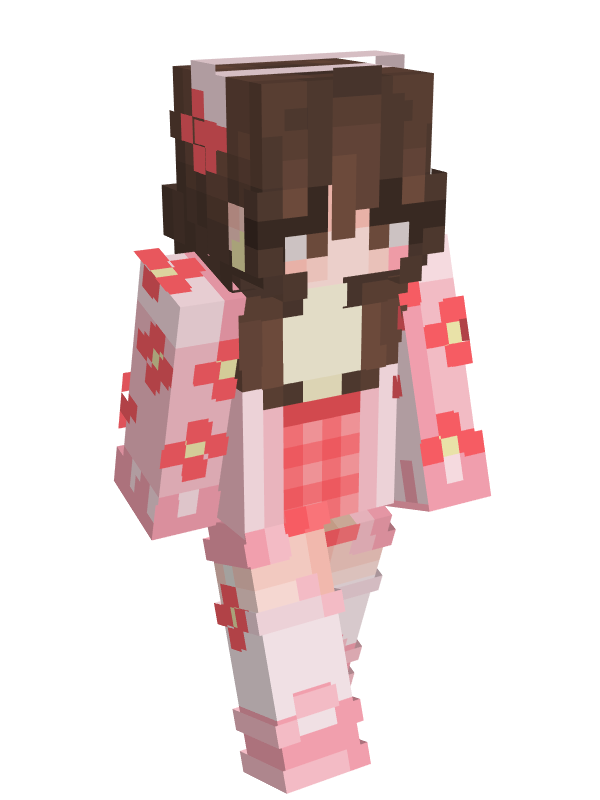
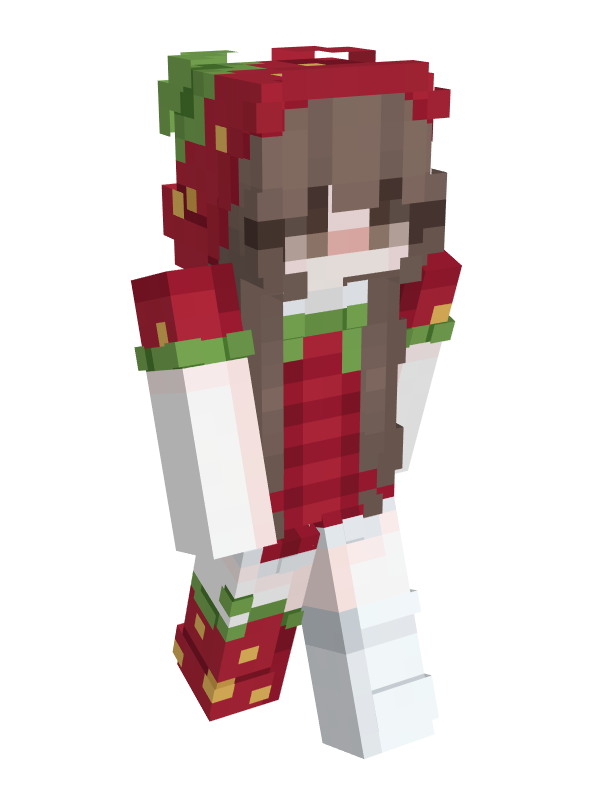
updated skins and added week 4

diff --git a/source/content/SarCraft/Seasons/Season 10/Season 10.md b/source/content/SarCraft/Seasons/Season 10/Season 10.md
@@ -27,6 +27,8 @@ In the continuing saga of SarCraft history, Season 10 stands as a testament to b
 - [[sillyxilly]]
 - [[PrincipleOf_AIS]]
 - [[Daisy]]
+- [[Raptross]]
+- [[dannyzek]]
 
 ## Pre-Launch Developments
 
@@ -362,25 +364,175 @@ the factory members would leave after a few hours and no pets were killed.
 
 ### Era of Peace
 
-week 2 would end with players starting to play together alot more. with the return of [[CatMDV|Cat]] to the server [[ToadGod|ToadBlaze]] would bring back the [[Spawn Mason]] and [[Chicken Factory]] would make a peace agreement with players at spawn.
+Week 2 would end with players starting to play together a lot more. Several significant developments shaped this period:
 
-many builds would take place during this period including a nether highway by [[Buhkiru]]
+#### Community Revival
 
-a overworld tunnel system would start by [[WhoIsFishie]]
+- [[CatMDV|Cat]] returned to the server
+- [[ToadGod|ToadBlaze]] reinvigorated the [[Spawn Mason]] faction
+- [[Chicken Factory]] established a peace agreement with players at spawn
 
-[[Chicken Factory]] base would become public as players would split out to make their own base and the original base would end up being owned by [[Buhkiru]]
+#### Infrastructure Projects
 
-[[ToadGod|ToadBlaze]] would also take this time to build up his base at spawn 
+- [[Buhkiru]] constructed a nether highway
+- [[WhoIsFishie]] began an overworld tunnel system
+- [[Buhkiru]] built the Black Pearl at spawn
 
-[[shihaam_me]] would head out about 4k blocks to build his world famous cube but his plans would have to be put on hold as [[TheHarryG|12OK]] offers to buy 14k dirt blocks in exchange for diamonds.
+#### Base Developments
 
-[[WhoIsFishie]] and [[Perhaps]] would make the journey to visit [[shihaam_me]] and give him some diamonds 
+- [[Chicken Factory]] base became public as members split off to make their own bases
+- The original Chicken Factory headquarters became [[Buhkiru]]'s personal base
+- [[ToadGod|ToadBlaze]] developed his base at spawn
+- [[shihaam_me]] ventured about 4,000 blocks from spawn to start building his world-famous cube
+    - This project was temporarily paused when [[TheHarryG|12OK]] offered to buy 14,000 dirt blocks in exchange for diamonds
+    - [[WhoIsFishie]] and [[Perhaps]] made the journey to visit [[shihaam_me]] and deliver diamonds
 
-[[Buhkiru]] would build the black pearl at spawn 
+Overall, the end of week 2 and beginning of week 3 marked the most peaceful period the server had experienced, characterized by collaborative building projects and reduced factional tensions.
 
-overall end of week 2 and start of week 3 would be the most peacefull as the server has been with new builds and collaboration 
 
 ## Week 3
+
+### The TSA Incident: Border Tension and Hostage Crisis
+
+On March 18th, 2025, another such confrontation unfolded—one that would become known as "The TSA Incident and Hostage Crisis."
+
+#### The Intrusion
+
+It began like many conflicts on SarCraft: with an unexpected visitor in claimed territory. As [[Buhkiru]] logged into the server, he immediately noticed something alarming—[[iBattus]], a member of [[The Alliance]] and longtime rival of the [[Chicken Factory]], standing suspiciously inside Chicken Factory territory.
+
+"Why are u just there?" Buhkiru questioned, his suspicion evident.
+
+The situation escalated quickly when [[WhoIsFishie]] joined the server. Recognizing the potential threat of having a rival faction member within their borders, he immediately instituted an improvised security protocol.
+
+"If you come here you must go through TSA," WhoIsFishie declared, establishing what would become one of the most contentious border policies in Season 10.
+
+#### The TSA Standoff
+
+What exactly was the "TSA" that WhoIsFishie demanded? Much like its real-world counterpart, the SarCraft TSA (Territory Security Administration) required visitors to submit to an inventory inspection—or as WhoIsFishie colorfully put it, "a cavity search."
+
+The terms were simple: show your inventory to prove you haven't stolen anything, or face immediate expulsion—likely at the end of a Netherite sword. In SarCraft's brutal implementation of border security, a "cavity search" typically involved killing uncooperative players and checking their dropped items—a grim but effective method of inventory inspection.
+
+"Our land, our rules," WhoIsFishie stated firmly, embodying the territorial sovereignty that had defined faction politics since the earliest seasons.
+
+[[iBattus]], no stranger to SarCraft conflict and a veteran of multiple wars, refused to comply with the demand. "I don't wanna show inv," he insisted, despite [[Buhkiru]]'s repeated warnings.
+
+As Buhkiru's patience wore thin, he issued his final warning: "Show inv or I'm killing u."
+
+Faced with this ultimatum and surrounded by Chicken Factory forces, [[Ssahan]] made the decision that has long been controversial in SarCraft history—he combat logged, disconnecting from the server to avoid potential death and item loss.
+
+"He logged," Buhkiru announced, confirming what many considered to be a cardinal sin in server etiquette.
+
+When [[Ssahan]] rejoined the server, he attempted to defuse the situation by showing his inventory, claiming: "I raided a desert ruin and got these, believe it or not." But the Chicken Factory members remained suspicious, particularly of the enchanted books in his possession.
+
+"I need to see enchants," Buhkiru demanded, concerned that valuable books might have been stolen from his chests.
+
+[[Ssahan]] protested his innocence: "There is none that I took from u," but the Chicken Factory wasn't convinced. As tensions escalated, [[Perhaps]] joined the security detail, and [[Anoojfunaid]] arrived to reinforce their position.
+
+#### The Hostage Situation
+
+What began as a border security check transformed into something far more serious: a hostage situation. When [[Ssahan]] asked "Can I leave?" he was met with a chilling response from Buhkiru:
+
+"Ure not leaving till [[iBattus]] comes back."
+
+The Chicken Factory had effectively taken [[Ssahan]] prisoner, using him as leverage against [[iBattus]]. The faction was now demanding that [[iBattus]] submit to his authority and provide his replay file—a recording of his actions on the server that might reveal any theft.
+
+"You give us your replay file and we let him go," [[WhoIsFishie]] declared, establishing clear hostage negotiation terms.
+
+As [[iBattus]] protested through the Telegram chat, [[Perhaps]] ominously asked [[Ssahan]]: "Have you ever heard of the term prison wife?"
+
+Desperate to free his ally, [[iBattus]] appealed directly to the server's highest authority: "shihaam_me what is this," he pleaded repeatedly, attempting to summon the server owner to intervene in what he perceived as unjust imprisonment.
+
+The Chicken Factory's response was immediate and threatening. "If u spam the kid dies," [[Perhaps]] warned, escalating the hostage situation to new heights.
+
+Under this pressure, [[iBattus]] finally relented, sharing an image of his inventory in the Telegram chat: "Here is my inv, ffs."
+
+But even this concession wasn't enough. "You could have hidden items," [[WhoIsFishie]] countered, while [[Perhaps]] added: "2 ender chests is sus."
+
+As negotiations reached an impasse, the [[Chicken Factory ]]began formalizing their improvised hostage-taking. [[Buhkiru]] issued a series of commands that revealed their intentions: "Box this area. Remove water. Below that. Box that."
+
+They were constructing a proper prison cell around [[Ssahan]], transforming what had begun as a simple border check into a full-scale hostage crisis that would echo the obsidian imprisonment techniques used against [[iBattus]] himself in previous seasons.
+
+The hostage situation eventually dissipated without administrative intervention. While [[shihaam_me]] briefly appeared in the Telegram chat, he merely joked about the situation rather than taking action, stating "Because you can't attend [court] if I don't allow you to" when players suggested a trial.
+
+Later that day, the server's attention shifted dramatically as [[Donut]] and [[StrawBwabii]] engaged in what appeared to be a death competition, generating hundreds of "fell from a high place" messages in the server log over the span of nearly an hour. This bizarre activity drew [[BuhKiru]] into the mix, who began alternately killing the players with various named weapons including "Tig Bits," "Back Shots," and "COAL."
+
+Even [[shihaam_me]] joined this chaotic activity, earning the "Ice Bucket Challenge" advancement while occasionally burning to death in lava.
+
+During this period, [[StrawBwabii]] experienced a tragedy when their pet goat "Milk Maid" was killed by a wolf—ironically, their own dog. This led to efforts to breed new pets, with players discussing the creation of a "rare white wolf" variant.
+
+By the end of the day, [[iBattus]] had effectively abandoned negotiations for [[Ssahan]]'s release, eventually telling the Chicken Factory to "Kill him" when they proposed further talks. This callous dismissal prompted [[WhoIsFishie]] to remark that [[iBattus]] was "tryna make us catch a case."
+
+[[iBattus]] was later accused of being on a hacked client by [[shihaam_me]] himself, who asked directly in the Telegram chat: "are you on a hacked client." This accusation was particularly ironic given that earlier the same day, [[iBattus]] had accused [[Buhkiru]] of flying hacks after seeing him use Avas Ride, a trident with riptide.
+
+In a final twist of irony, [[TheHarryG|12OK]] shared a link to a website about handling tantrums in children, a barbed reference to [[iBattus]]'s repeated complaints to [[shihaam_me]] about the hostage situation.
+
+### The Failed Peace Accord and Unwhitelisting
+
+On March 19th, the consequences of the hostage crisis continued to reverberate through the server. The day began with [[Buhkiru]] attempting to sweeten the deal for [[Ssahan]]'s release, proposing: "I'll make the deal even sweeter. You give me 64 dirt block and he is free to go. But you and only you will be KOS [Kill On Sight]. If Sahan or yeetuz comes to the base they are KOS too."
+
+In a significant diplomatic move, [[WhoIsFishie]] unveiled a formal peace agreement: "The Chicken Factory is ready to make a peace treaty in the interest of preserving builds and farms on the server and to avoid acts of terror that took place last season." He shared a link to an official document titled "[[PEACE ACCORD]]," noting that "this agreement also protects pets and not just builds."
+
+The document seemed like a major step toward stability after the hostilities of previous days—but the optimism would be short-lived.
+
+#### The Jail Break and Threats
+
+Rather than engaging with the peace proposal, [[Ssahan]] executed a daring escape from his prison cell. he fails and burns to death, his first message to the server after this was ominous: "u lot gonna die soon." This threat set the tone for what would become a day of escalating tensions.
+#### The Alliance Collapse
+
+As the day progressed, the tension reached a breaking point. In what would become a pivotal moment in Season 10 politics, [[iBattus]] left the SarCraft group chat entirely, effectively withdrawing from server politics in dramatic fashion.
+
+The server logs captured [[WhoIsFishie]]'s reaction:
+
+> "Damn, there goes my batman."
+
+[[Perhaps]] observed with equal parts sarcasm and insight:
+
+> "Can't believe we did nothing this season and he still got mad." "Average SarCraft season without the killings."
+
+#### Administrative Intervention
+
+At approximately 17:10 server time, [[iBattus]] briefly returned to the server, announcing cryptically: "wiping stuffs." This immediately triggered concern among [[Chicken Factory]] members that he might be preparing to destroy his base or engage in acts of retaliation.
+
+When questioned by [[shihaam_me]] about his purpose for logging in, [[iBattus]] doubled down on his hostile stance: "you are bad admin, good for chicken factory."
+
+Sensing the potential for significant server damage, [[shihaam_me]] took the extraordinary step of unwhitelisting both [[iBattus]] and [[Ssahan]] from the server—not quite a ban, but effectively removing their ability to access the game world.
+
+Explaining the decision to others in the Telegram chat, [[shihaam_me]] clarified: "theyre not banned, theyre unwhitelisted" – technically allowing them a path to return if they wished to reconcile with the server community.
+
+#### Diplomatic Reflections
+
+As the dust settled, a period of reflection began. [[athphane]], the renowned server judge, remarked that he would "wear my winnings from court then" – a reference to the diamonds he had received during the previous week's trial. He added that it was "the easiest diamond grind I've ever done," highlighting the unusual economics of SarCraft's judicial system.
+
+Meanwhile, [[Buhkiru]] was already preparing for potential retribution: "Ik the nuke is coming, but if [[iBattus]] blows my base up while im offline, he is the biggest wuss... correction, biggest pussy."
+
+#### The Era of Construction
+
+With the immediate threat of conflict diminished by the unwhitelisting, the server entered a brief period of peaceful construction. [[Buhkiru]] and [[StrawBwabii]] began work on an ambitious lush cave project, gathering resources and discussing design plans.
+
+The logs record their collaboration:
+
+-  **[[StrawBwabii]]**: "can i help"
+- **[[BuhKiru]]**: "sure" 
+- **[[StrawBwabii]]**: "what do we need" 
+- **[[BuhKiru]]**: "just stone for now" 
+- **[[StrawBwabii]]**: "ik we need moss for them to grow" 
+- **[[BuhKiru]]**: "make the cave then decorate"
+
+In a moment of unintentional comedy, [[StrawBwabii]] was briefly accused of flying hacks by [[Buhkiru]], who jokingly called for [[shihaam_me]]'s attention. [[StrawBwabii]] played along: "no don't expose my hacks," highlighting the server's ongoing preoccupation with hacking accusations.
+
+## Week 4
+
+to keep the server interesting sarcraft would receive a new modpack update which adds new decoration blocks, elytra trims and a camera
+
+as the end update was getting ready to release players would start preparing for the dragon fight
+
+on the night of 27th [[shihaam_me]] would open the end allowing players to join.
+
+the [[Chicken Factory]] wouldn't join as they wanted all members to be present
+
+[[WhoIsFishie]] suffering from a irl injury would suggest everyone to do the end event without him  
+[[Donut]] would suggest the same as she is traveling irl 
+
 
 > [!NOTE] For a complete list of Season 10 modifications and changes, see [[ChangeLog]]
 

diff --git a/source/content/SarCraft/Seasons/Season 10/ChangeLog.md b/source/content/SarCraft/Seasons/Season 10/ChangeLog.md
@@ -110,3 +110,48 @@ Wandering traders now offer miniature versions of regular blocks, providing uniq
 
 - Enderman griefing has been disabled
 - Crops won't break when players with Feather Falling enchantment jump on them
+
+
+## later updates
+these are additional updates released to the server over time
+
+## [Sit](https://curseforge.com/minecraft/mc-mods/sit-fabric) by bl4ckscor3
+Adds the ability to sit on slabs and stairs.
+this mod was added for the second court session
+
+## VinURL by Plompi, Hoofer
+Adds a writeable music disc, allowing you to customize the music that plays from any youtube link.
+
+### What Are They Up To (Watut)
+Lets you see if players are typing, in a GUI, idle, with cool ingame visuals
+### Tasty Vanilla
+A Delicious Expansion to Minecraft’s Food System
+Farm and harvest new crops and berries, and cook new food recipes, all while staying true to vanilla mechanics and feel.
+
+### Leashable Collars
+a mod that allows you to put leashes on players
+
+## NotEnoughPots
+mod to make all plants and food be put in a pot
+
+## More Berries by Marcus Elg
+Adds more berries, that can be used for cakes and more!
+
+### headpats
+Give headpats to other players!
+
+## [Elytra Trims](https://modrinth.com/mod/elytra-trims) by KikuGie
+
+Lightweight and customizable support for elytra trims and other decorations
+
+## [ElectricMace](https://modrinth.com/project/electric-mace) by anvian
+
+Adds the possibility of enchanting the new Mace with Channeling so that when we hit a mob from above it will be hit by lightning if it thunders.
+
+### [Camerapture](https://modrinth.com/mod/camerapture) by chrrrs
+Take photos and display pictures in Minecraft.
+
+## [Beautify](https://www.curseforge.com/minecraft/mc-mods/beautify-refabricated) by Suel_ki
+
+Beautify adds lots of vanilla-styled ways to spice up your builds with custom models that'll fit right in to your houses etc.
+
